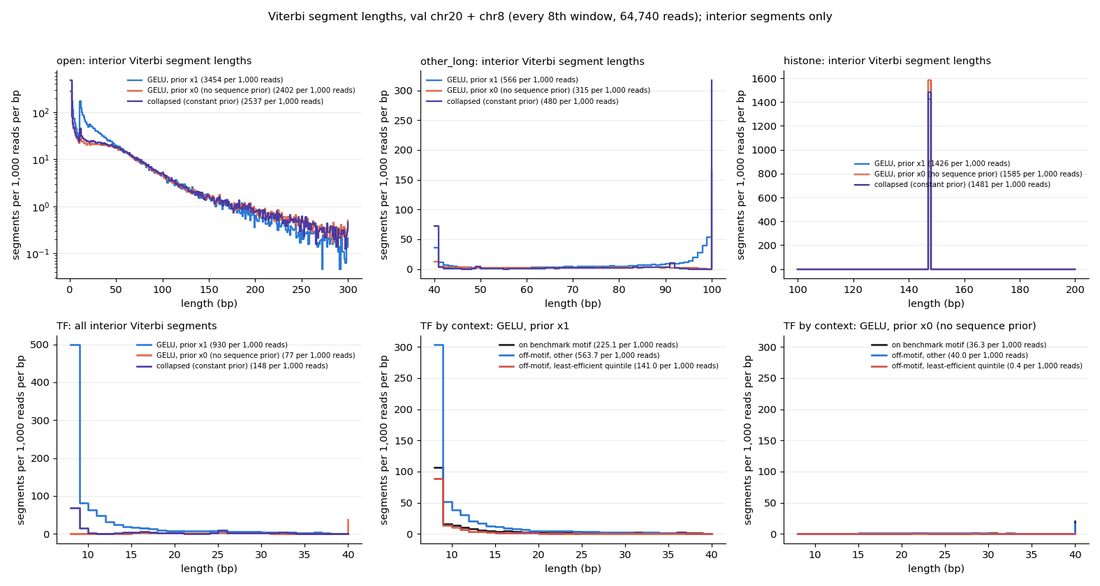
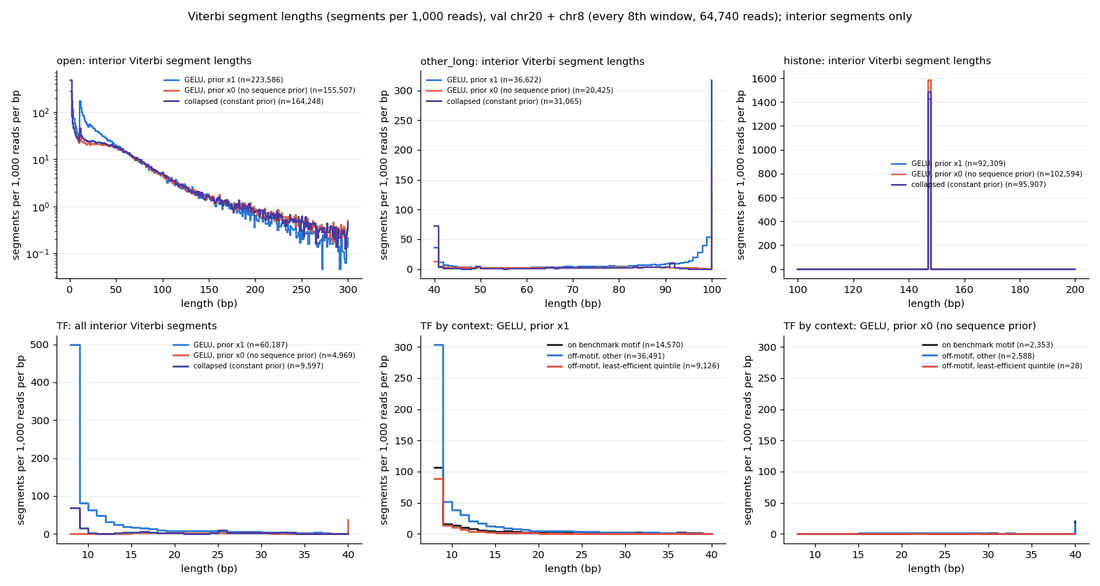
Add proportion-scaled Viterbi length histograms

diff --git a/projects/smf-hmm/2026-11-16/fiber-tf-nubs-spacer-and-duration-shaping.md b/projects/smf-hmm/2026-11-16/fiber-tf-nubs-spacer-and-duration-shaping.md
@@ -85,6 +85,15 @@ tied (fix trials, overview note).
 *Viterbi segment lengths per state. TF (bottom row): with the prior, an 8 bp spike in every context;
 without it, TFs sit at the 40 bp maximum.*
 
+![Viterbi segment lengths, proportions](fiber-tf-nubs-spacer-and-duration-shaping/viterbi_lengths_proportion.png)
+
+*The same as shares of each series (n in the legends).*
+- **Without the sequence prior (n = 4,969):** TF lengths form a broad 13-35 bp hump plus a 40 bp spike
+  (48%), with no 8 bp mode.
+- **With the AG prior (n = 60,187):** 54% at 8 bp.
+- **Collapsed constant prior (n = 9,597):** 46% at 8 bp.
+- **Least-efficient quintile without the prior:** only 28 segments.
+
 # Details
 
 - **Potentials.** Each potential is the output-layer bias minus the open state's bias. Spacer states
